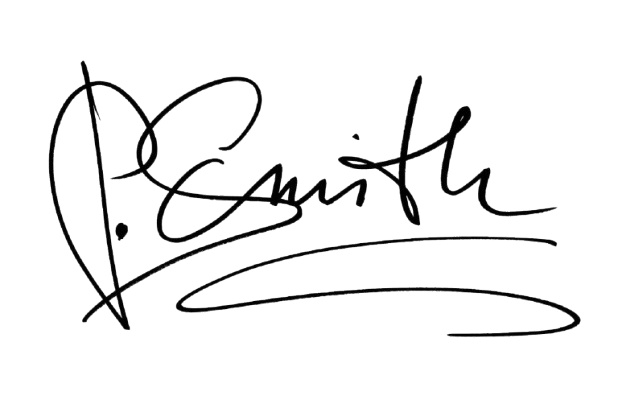
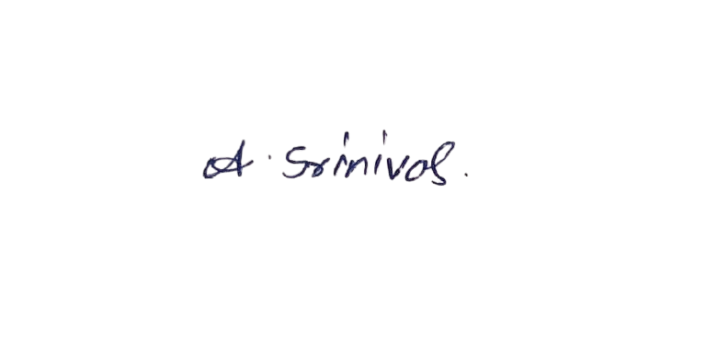
profile qr alignments and sign changed

diff --git a/client/src/pages/Profile.jsx b/client/src/pages/Profile.jsx
@@ -232,7 +232,7 @@ const Profile = () => {
             const qrWidth = canvas.width * qrWidthPercent;
             const qrHeight = canvas.height * qrHeightPercent;
             const qrX = canvas.width * 0.8620 - qrWidth / 2;
-            const qrY = canvas.height * 0.8180 - qrHeight / 2;
+            const qrY = canvas.height * 0.7780 - qrHeight / 2;
 
             ctx.drawImage(qrImg, qrX, qrY, qrWidth, qrHeight);
 
@@ -1069,7 +1069,7 @@ const Profile = () => {
                           {/* Dynamically Overlayed Verification QR Code (Exact positioning over bottom-right placeholder) */}
                           <div style={{
                             position: 'absolute',
-                            top: '76.58%',
+                            top: '72.58%',
                             left: '82.5%',
                             width: '7.37%',
                             height: '10.44%',
